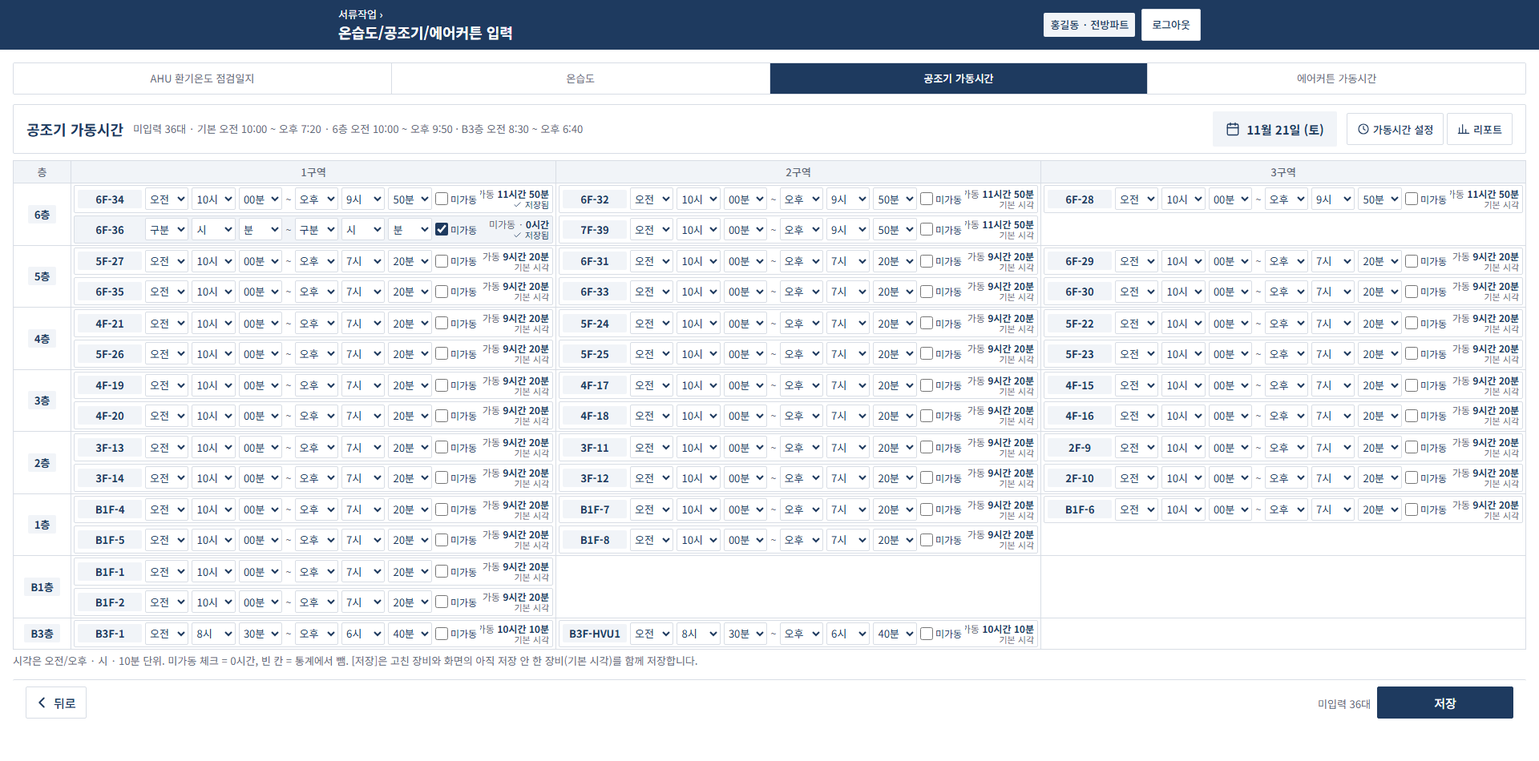
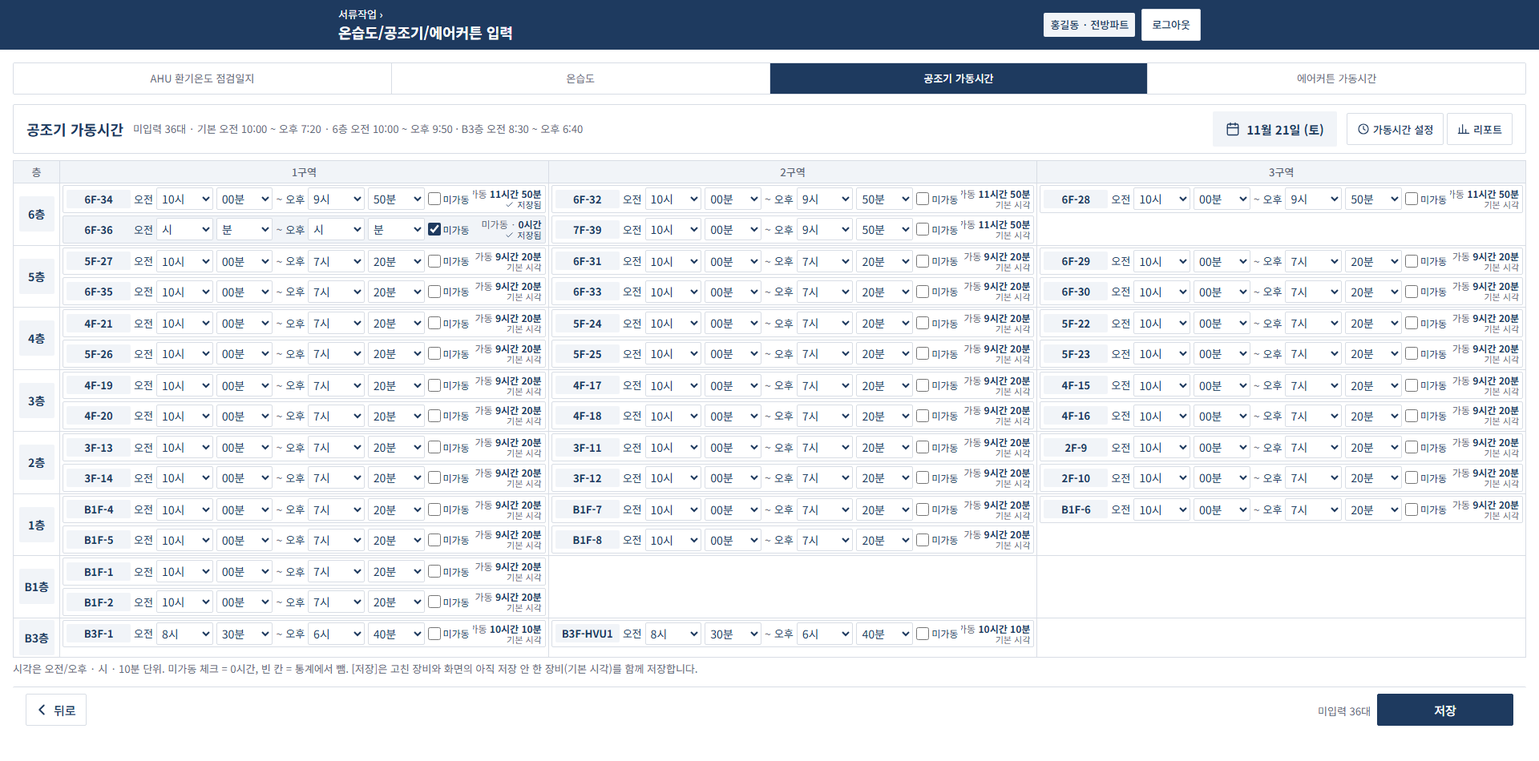
업무지원 v0.23.1 가동시간 칸 다듬기 (시작 오전·종료 오후 고정, PC 글자·층 칸 정사각형, 결정 202)

diff --git a/fm/ws/app.html b/fm/ws/app.html
@@ -10,9 +10,9 @@
 <title>업무지원 · 에비뉴엘 시설팀</title>
 <meta name="robots" content="noindex">
 <script src="https://cdn.jsdelivr.net/npm/@supabase/supabase-js@2.49.4/dist/umd/supabase.min.js"></script>
-<script src="config.js?v=0.23.0"></script>
-<script>window.WS_VERSION = '0.23.0';</script>
-<script src="ws-api.js?v=0.23.0"></script>
+<script src="config.js?v=0.23.1"></script>
+<script>window.WS_VERSION = '0.23.1';</script>
+<script src="ws-api.js?v=0.23.1"></script>
 <meta charset="utf-8">
 <link rel="preconnect" href="https://fonts.googleapis.com">
 <link href="https://fonts.googleapis.com/css2?family=Noto+Sans+KR:wght@400;500;700&display=swap" rel="stylesheet" media="print" onload="this.media='all'">
@@ -693,18 +693,20 @@ select.lgin{text-align:center;padding:0}
 .uchd{display:flex;align-items:center;gap:var(--sp-3);flex-wrap:wrap}.uchd b{font-size:var(--size-l)}.uchd .hvmeta{margin:0;flex:1 1 300px}
 .hdbtns{display:flex;gap:var(--sp-1);flex-wrap:wrap;justify-content:flex-end}
 /* PC 가동시간: 장비 한 줄 (1920x1080 한 화면, 결정 200) */
-.ucpc{margin-top:var(--sp-2);table-layout:fixed}.ucpc th{padding:4px}.ucpc td{padding:2px 3px}.lgwrap .ucpc+.clnote{margin-top:4px}
+.ucpc{margin-top:var(--sp-2);table-layout:fixed}.ucpc.zoned td.ctr .flname{width:44px;height:44px;padding:0;display:inline-flex;align-items:center;justify-content:center;font-size:14px}.ucpc th{padding:4px}.ucpc td{padding:2px 3px}.lgwrap .ucpc+.clnote{margin-top:4px}
 .ucpc .ucg{gap:3px}
 .ucpc .uc{display:flex;align-items:center;gap:4px;padding:2px 4px;border:1px solid var(--line2);border-radius:var(--radius)}
 .ucpc .uc .h,.ucpc .uc .r{display:contents}
 .ucpc .uc .flname{width:80px;flex:none;font-size:13px;padding:2px 4px;text-align:center;white-space:nowrap;overflow:hidden;text-overflow:ellipsis}.ucpc .uc .flname small{display:none}
-.ucpc .uc .r>span{display:none}
-.ucpc .uc .r:nth-child(3)>span{display:inline;font-size:0;order:3}.ucpc .uc .r:nth-child(3)>span::before{content:'~';font-size:13px;color:var(--sub)}
-.ucpc .uc select{order:2;font-size:13px;min-height:28px;height:28px;flex:1 1 0;min-width:0;width:auto;padding:0 1px}.ucpc .uc .r:nth-child(3)>select{order:4}
+.ucpc .uc .r>span:first-child{display:none}
+.ucpc .uc .r:nth-child(3)>span:first-child{display:inline;font-size:0;order:3}.ucpc .uc .r:nth-child(3)>span:first-child::before{content:'~';font-size:14px;color:var(--sub)}
+.ucpc .uc .ap{order:2;flex:none;font-size:13px}.ucpc .uc .r:nth-child(3)>.ap{order:4}
+.ucpc .uc select{order:2;font-size:14px;min-height:28px;height:28px;flex:1 1 0;min-width:52px;width:auto;padding:0 2px}.ucpc .uc .r:nth-child(3)>select{order:4}
 .ucpc .uc .off{order:5;min-height:28px;font-size:12px;gap:3px;white-space:nowrap}.ucpc .uc .off input{width:16px;height:16px}
 .ucpc .uc .f{order:6;margin:0;flex:none;width:86px;overflow:hidden;flex-direction:column;align-items:flex-end;gap:0;font-size:12px;line-height:1.25;white-space:nowrap}
 .ucpc .uc .f .nwstate,.ucpc .uc .f .clmuted{font-size:11px}.ucpc .uc .f svg{width:11px;height:11px}
 .ucpc .ucg3{gap:4px}
+.uc .ap{text-align:center;font-size:var(--size-s);color:var(--ink)}
 .ucz{font-size:var(--size-s);color:var(--sub);font-weight:600;margin:var(--sp-3) 0 var(--sp-1)}
 .flsec{scroll-margin-top:70px}
 /* 가동시간 설정 (요일별 기본 시각) */
@@ -735,7 +737,7 @@ select.lgin{text-align:center;padding:0}
 const EXEC_URL = '';
 const FLOORS = ['B1','1F','2F','3F','4F','5F','6F'];
 const CAN_PRINT = window.matchMedia('(hover: hover) and (pointer: fine)').matches && window.innerWidth >= 900;
-const S = { token: store('ws_token') || '', user: null, view: 'loading', pin: '', sign: null, docs: null, tbm: null, fire: null, qr: null, sel: {}, q: '', st: null, ym: '', floor: '3F', busy: false, ver: '0.23.0' || store('ws_ver') || '' };
+const S = { token: store('ws_token') || '', user: null, view: 'loading', pin: '', sign: null, docs: null, tbm: null, fire: null, qr: null, sel: {}, q: '', st: null, ym: '', floor: '3F', busy: false, ver: '0.23.1' || store('ws_ver') || '' };
 
 /* ── 도우미 ── */
 function store(k, v) { try { if (v === undefined) return localStorage.getItem(k); if (v === null) localStorage.removeItem(k); else localStorage.setItem(k, v); } catch (e) { return null; } }
@@ -2962,7 +2964,7 @@ async function climSave() {
 
 /* ── 탭 ③④ 공조기·에어커튼 가동시간: 시각 = 오전/오후·시·10분. 미가동 = 0시간, 빈 칸 = 통계 제외 (옛 앱 규칙) ── */
 function useParts(m) { if (m == null || m === '') return ['', '', '']; if (m >= 1440) return ['am', '12', '0']; const h24 = Math.floor(m / 60); return [h24 < 12 ? 'am' : 'pm', String(h24 % 12 || 12), String(m % 60)]; }
-function useMin(ap, hh, mm) { if (!ap || !hh || mm === '') return null; return (Number(hh) % 12 + (ap === 'pm' ? 12 : 0)) * 60 + Number(mm); }
+function useMin(ap, hh, mm) { if (!ap || !hh || mm === '') return null; if (hh === '24') return 1440 + Number(mm); return (Number(hh) % 12 + (ap === 'pm' ? 12 : 0)) * 60 + Number(mm); }
 function useDur(m) { return Math.floor(m / 60) + '시간' + (m % 60 ? ' ' + String(m % 60).padStart(2, '0') + '분' : ''); }
 function useHm(m) { const p = useParts(m); return (p[0] === 'am' ? '오전 ' : '오후 ') + p[1] + ':' + String(p[2]).padStart(2, '0'); }
 async function openUse(kind, day) {
@@ -2992,14 +2994,15 @@ function useCal() {
 function useParse(v) {
   if (v.off) return { s: null, e: null, off: true };
   if (v.s == null && v.e == null) return { s: null, e: null, off: false, empty: true };
-  if (v.s == null || v.e == null) return { err: '시작과 종료의 오전/오후·시·분을 모두 고르세요' };
+  if (v.s == null || v.e == null) return { err: '시작과 종료의 시·분을 모두 고르세요' };
   let e = v.e; if (e <= v.s) { if (e === 0) e = 1440; else return { err: '종료가 시작보다 빠릅니다' }; }
   return { s: v.s, e, off: false };
 }
-function useSel(u, f, val, nm) {
-  const p = useParts(val), o = (k, opts) => '<select data-u="' + h(u.u) + '" data-f="' + f + k + '" aria-label="' + h(nm) + '" onchange="useIn(this)">' + opts.map(x => '<option value="' + x[0] + '"' + (String(x[0]) === String(p[k === 'a' ? 0 : k === 'h' ? 1 : 2]) ? ' selected' : '') + '>' + x[1] + '</option>').join('') + '</select>';
-  const hrs = [['', '시']].concat(Array.from({ length: 12 }, (_, i) => [String(i + 1), (i + 1) + '시'])), mins = [['', '분']].concat([0, 10, 20, 30, 40, 50].map(m => [String(m), String(m).padStart(2, '0') + '분']));
-  return o('a', [['', '구분'], ['am', '오전'], ['pm', '오후']]) + o('h', hrs) + o('m', mins);
+function useSel(u, f, val, nm, part) {
+  const p = val == null && part ? ['', part[0], part[1]] : f === 'e' && val >= 1440 ? ['pm', '24', String(val - 1440)] : useParts(val), ap = p[0] || (f === 's' ? 'am' : 'pm');
+  const o = (k, opts) => '<select data-u="' + h(u.u) + '" data-f="' + f + k + '" aria-label="' + h(nm) + (k === 'h' ? ' 시' : ' 분') + '" onchange="useIn(this)">' + opts.map(x => '<option value="' + x[0] + '"' + (String(x[0]) === String(p[k === 'h' ? 1 : 2]) ? ' selected' : '') + '>' + x[1] + '</option>').join('') + '</select>';
+  const hrs = [['', '시']].concat(Array.from({ length: 12 }, (_, i) => [String(i + 1), (i + 1) + '시']), f === 'e' ? [['24', '12시(자정)']] : []), mins = [['', '분']].concat([0, 10, 20, 30, 40, 50].map(m => [String(m), String(m).padStart(2, '0') + '분']));
+  return '<span class="ap" data-f="' + f + 'a" data-ap="' + ap + '">' + (ap === 'am' ? '오전' : '오후') + '</span>' + o('h', hrs) + o('m', mins);   // 시작 오전 · 종료 오후 고정 (결정 202)
 }
 function useCard(u) {
   const g = S.use, v = g.v[u.u], p = useParse(v), nm = (u.sub ? u.sub + ' ' : '') + u.name;
@@ -3007,7 +3010,7 @@ function useCard(u) {
   const st = g.ch[u.u] ? '<span class="nwstate dirty"><i class="dot"></i>저장 안 함</span>' : v.saved ? '<span class="nwstate">' + ICON.ok + '저장됨</span>' : '<span class="clmuted">기본 시각</span>';
   return '<div class="uc' + (v.off ? ' isoff' : '') + (p.err ? ' bad' : '') + '" data-card="' + h(u.u) + '"><div class="h">' + clName(u.name, u.tone, u.sub) +
     '<label class="off"><input type="checkbox" data-u="' + h(u.u) + '" data-f="off"' + (v.off ? ' checked' : '') + ' onchange="useIn(this)" aria-label="' + h(nm) + ' 미가동">미가동</label></div>' +
-    '<div class="r"><span>시작</span>' + useSel(u, 's', v.s, nm + ' 시작') + '</div><div class="r"><span>종료</span>' + useSel(u, 'e', v.e, nm + ' 종료') + '</div>' +
+    '<div class="r"><span>시작</span>' + useSel(u, 's', v.s, nm + ' 시작', v.sp) + '</div><div class="r"><span>종료</span>' + useSel(u, 'e', v.e, nm + ' 종료', v.ep) + '</div>' +
     '<div class="f"><span>' + foot + '</span>' + st + '</div></div>';
 }
 function useIn(el) {
@@ -3015,7 +3018,8 @@ function useIn(el) {
   if (f === 'off') v.off = el.checked;
   else {
     const c = el.closest('.uc'), q = k => c.querySelector('[data-f="' + f[0] + k + '"]').value;
-    v[f[0]] = useMin(q('a'), q('h'), q('m'));
+    v[f[0] + 'p'] = [q('h'), q('m')];
+    v[f[0]] = useMin(c.querySelector('[data-f="' + f[0] + 'a"]').dataset.ap, q('h'), q('m'));
   }
   g.ch[u] = 1; g.err = '';
   const unit = g.srv.units.find(x => x.u === u), c = document.querySelector('[data-card="' + CSS.escape(u) + '"]');
@@ -3051,7 +3055,7 @@ function renderUse() {
       const noz = x.us.every(u => !u.zone);   // 구역 없는 B3층: 구역 칸에 차례로 (다른 층 칸과 같은 크기)
       return '<tr>' + nm + Z.map((z, i) => '<td><div class="ucg">' + x.us.filter((u, j) => noz ? j % 3 === i : u.zone === z).map(useCard).join('') + '</div></td>').join('') + '</tr>';
     }).join('');
-    return clTop() + '<div class="lgwrap">' + clTabs(g.kind) + head + '<table class="cltbl ucpc"><thead><tr><th style="width:72px">' + (zoned ? '층' : '묶음') + '</th>' + (zoned ? Z.map(z => '<th>' + z + '</th>').join('') : '<th>' + kn + '</th>') + '</tr></thead><tbody>' + rows + '</tbody></table>' + note + bar + '</div>';
+    return clTop() + '<div class="lgwrap">' + clTabs(g.kind) + head + '<table class="cltbl ucpc' + (zoned ? ' zoned' : '') + '"><thead><tr><th style="width:' + (zoned ? 58 : 72) + 'px">' + (zoned ? '층' : '묶음') + '</th>' + (zoned ? Z.map(z => '<th>' + z + '</th>').join('') : '<th>' + kn + '</th>') + '</tr></thead><tbody>' + rows + '</tbody></table>' + note + bar + '</div>';
   }
   const head = '<div class="card" style="padding:var(--sp-4)"><div class="hvhd"><b>' + kn + ' 가동시간</b>' + date + '</div>' +
     '<div class="hdrow"><span class="hvmeta" style="margin:0">' + meta + '</span>' + btns + '</div>' + clNav(gs.map(x => [x.g, x.tone, cnt(x)]), g.pg, 'useJump') + '</div>';

diff --git a/apps/ws/src/Index.html b/apps/ws/src/Index.html
@@ -574,18 +574,20 @@ select.lgin{text-align:center;padding:0}
 .uchd{display:flex;align-items:center;gap:var(--sp-3);flex-wrap:wrap}.uchd b{font-size:var(--size-l)}.uchd .hvmeta{margin:0;flex:1 1 300px}
 .hdbtns{display:flex;gap:var(--sp-1);flex-wrap:wrap;justify-content:flex-end}
 /* PC 가동시간: 장비 한 줄 (1920x1080 한 화면, 결정 200) */
-.ucpc{margin-top:var(--sp-2);table-layout:fixed}.ucpc th{padding:4px}.ucpc td{padding:2px 3px}.lgwrap .ucpc+.clnote{margin-top:4px}
+.ucpc{margin-top:var(--sp-2);table-layout:fixed}.ucpc.zoned td.ctr .flname{width:44px;height:44px;padding:0;display:inline-flex;align-items:center;justify-content:center;font-size:14px}.ucpc th{padding:4px}.ucpc td{padding:2px 3px}.lgwrap .ucpc+.clnote{margin-top:4px}
 .ucpc .ucg{gap:3px}
 .ucpc .uc{display:flex;align-items:center;gap:4px;padding:2px 4px;border:1px solid var(--line2);border-radius:var(--radius)}
 .ucpc .uc .h,.ucpc .uc .r{display:contents}
 .ucpc .uc .flname{width:80px;flex:none;font-size:13px;padding:2px 4px;text-align:center;white-space:nowrap;overflow:hidden;text-overflow:ellipsis}.ucpc .uc .flname small{display:none}
-.ucpc .uc .r>span{display:none}
-.ucpc .uc .r:nth-child(3)>span{display:inline;font-size:0;order:3}.ucpc .uc .r:nth-child(3)>span::before{content:'~';font-size:13px;color:var(--sub)}
-.ucpc .uc select{order:2;font-size:13px;min-height:28px;height:28px;flex:1 1 0;min-width:0;width:auto;padding:0 1px}.ucpc .uc .r:nth-child(3)>select{order:4}
+.ucpc .uc .r>span:first-child{display:none}
+.ucpc .uc .r:nth-child(3)>span:first-child{display:inline;font-size:0;order:3}.ucpc .uc .r:nth-child(3)>span:first-child::before{content:'~';font-size:14px;color:var(--sub)}
+.ucpc .uc .ap{order:2;flex:none;font-size:13px}.ucpc .uc .r:nth-child(3)>.ap{order:4}
+.ucpc .uc select{order:2;font-size:14px;min-height:28px;height:28px;flex:1 1 0;min-width:52px;width:auto;padding:0 2px}.ucpc .uc .r:nth-child(3)>select{order:4}
 .ucpc .uc .off{order:5;min-height:28px;font-size:12px;gap:3px;white-space:nowrap}.ucpc .uc .off input{width:16px;height:16px}
 .ucpc .uc .f{order:6;margin:0;flex:none;width:86px;overflow:hidden;flex-direction:column;align-items:flex-end;gap:0;font-size:12px;line-height:1.25;white-space:nowrap}
 .ucpc .uc .f .nwstate,.ucpc .uc .f .clmuted{font-size:11px}.ucpc .uc .f svg{width:11px;height:11px}
 .ucpc .ucg3{gap:4px}
+.uc .ap{text-align:center;font-size:var(--size-s);color:var(--ink)}
 .ucz{font-size:var(--size-s);color:var(--sub);font-weight:600;margin:var(--sp-3) 0 var(--sp-1)}
 .flsec{scroll-margin-top:70px}
 /* 가동시간 설정 (요일별 기본 시각) */
@@ -2843,7 +2845,7 @@ async function climSave() {
 
 /* ── 탭 ③④ 공조기·에어커튼 가동시간: 시각 = 오전/오후·시·10분. 미가동 = 0시간, 빈 칸 = 통계 제외 (옛 앱 규칙) ── */
 function useParts(m) { if (m == null || m === '') return ['', '', '']; if (m >= 1440) return ['am', '12', '0']; const h24 = Math.floor(m / 60); return [h24 < 12 ? 'am' : 'pm', String(h24 % 12 || 12), String(m % 60)]; }
-function useMin(ap, hh, mm) { if (!ap || !hh || mm === '') return null; return (Number(hh) % 12 + (ap === 'pm' ? 12 : 0)) * 60 + Number(mm); }
+function useMin(ap, hh, mm) { if (!ap || !hh || mm === '') return null; if (hh === '24') return 1440 + Number(mm); return (Number(hh) % 12 + (ap === 'pm' ? 12 : 0)) * 60 + Number(mm); }
 function useDur(m) { return Math.floor(m / 60) + '시간' + (m % 60 ? ' ' + String(m % 60).padStart(2, '0') + '분' : ''); }
 function useHm(m) { const p = useParts(m); return (p[0] === 'am' ? '오전 ' : '오후 ') + p[1] + ':' + String(p[2]).padStart(2, '0'); }
 async function openUse(kind, day) {
@@ -2873,14 +2875,15 @@ function useCal() {
 function useParse(v) {
   if (v.off) return { s: null, e: null, off: true };
   if (v.s == null && v.e == null) return { s: null, e: null, off: false, empty: true };
-  if (v.s == null || v.e == null) return { err: '시작과 종료의 오전/오후·시·분을 모두 고르세요' };
+  if (v.s == null || v.e == null) return { err: '시작과 종료의 시·분을 모두 고르세요' };
   let e = v.e; if (e <= v.s) { if (e === 0) e = 1440; else return { err: '종료가 시작보다 빠릅니다' }; }
   return { s: v.s, e, off: false };
 }
-function useSel(u, f, val, nm) {
-  const p = useParts(val), o = (k, opts) => '<select data-u="' + h(u.u) + '" data-f="' + f + k + '" aria-label="' + h(nm) + '" onchange="useIn(this)">' + opts.map(x => '<option value="' + x[0] + '"' + (String(x[0]) === String(p[k === 'a' ? 0 : k === 'h' ? 1 : 2]) ? ' selected' : '') + '>' + x[1] + '</option>').join('') + '</select>';
-  const hrs = [['', '시']].concat(Array.from({ length: 12 }, (_, i) => [String(i + 1), (i + 1) + '시'])), mins = [['', '분']].concat([0, 10, 20, 30, 40, 50].map(m => [String(m), String(m).padStart(2, '0') + '분']));
-  return o('a', [['', '구분'], ['am', '오전'], ['pm', '오후']]) + o('h', hrs) + o('m', mins);
+function useSel(u, f, val, nm, part) {
+  const p = val == null && part ? ['', part[0], part[1]] : f === 'e' && val >= 1440 ? ['pm', '24', String(val - 1440)] : useParts(val), ap = p[0] || (f === 's' ? 'am' : 'pm');
+  const o = (k, opts) => '<select data-u="' + h(u.u) + '" data-f="' + f + k + '" aria-label="' + h(nm) + (k === 'h' ? ' 시' : ' 분') + '" onchange="useIn(this)">' + opts.map(x => '<option value="' + x[0] + '"' + (String(x[0]) === String(p[k === 'h' ? 1 : 2]) ? ' selected' : '') + '>' + x[1] + '</option>').join('') + '</select>';
+  const hrs = [['', '시']].concat(Array.from({ length: 12 }, (_, i) => [String(i + 1), (i + 1) + '시']), f === 'e' ? [['24', '12시(자정)']] : []), mins = [['', '분']].concat([0, 10, 20, 30, 40, 50].map(m => [String(m), String(m).padStart(2, '0') + '분']));
+  return '<span class="ap" data-f="' + f + 'a" data-ap="' + ap + '">' + (ap === 'am' ? '오전' : '오후') + '</span>' + o('h', hrs) + o('m', mins);   // 시작 오전 · 종료 오후 고정 (결정 202)
 }
 function useCard(u) {
   const g = S.use, v = g.v[u.u], p = useParse(v), nm = (u.sub ? u.sub + ' ' : '') + u.name;
@@ -2888,7 +2891,7 @@ function useCard(u) {
   const st = g.ch[u.u] ? '<span class="nwstate dirty"><i class="dot"></i>저장 안 함</span>' : v.saved ? '<span class="nwstate">' + ICON.ok + '저장됨</span>' : '<span class="clmuted">기본 시각</span>';
   return '<div class="uc' + (v.off ? ' isoff' : '') + (p.err ? ' bad' : '') + '" data-card="' + h(u.u) + '"><div class="h">' + clName(u.name, u.tone, u.sub) +
     '<label class="off"><input type="checkbox" data-u="' + h(u.u) + '" data-f="off"' + (v.off ? ' checked' : '') + ' onchange="useIn(this)" aria-label="' + h(nm) + ' 미가동">미가동</label></div>' +
-    '<div class="r"><span>시작</span>' + useSel(u, 's', v.s, nm + ' 시작') + '</div><div class="r"><span>종료</span>' + useSel(u, 'e', v.e, nm + ' 종료') + '</div>' +
+    '<div class="r"><span>시작</span>' + useSel(u, 's', v.s, nm + ' 시작', v.sp) + '</div><div class="r"><span>종료</span>' + useSel(u, 'e', v.e, nm + ' 종료', v.ep) + '</div>' +
     '<div class="f"><span>' + foot + '</span>' + st + '</div></div>';
 }
 function useIn(el) {
@@ -2896,7 +2899,8 @@ function useIn(el) {
   if (f === 'off') v.off = el.checked;
   else {
     const c = el.closest('.uc'), q = k => c.querySelector('[data-f="' + f[0] + k + '"]').value;
-    v[f[0]] = useMin(q('a'), q('h'), q('m'));
+    v[f[0] + 'p'] = [q('h'), q('m')];
+    v[f[0]] = useMin(c.querySelector('[data-f="' + f[0] + 'a"]').dataset.ap, q('h'), q('m'));
   }
   g.ch[u] = 1; g.err = '';
   const unit = g.srv.units.find(x => x.u === u), c = document.querySelector('[data-card="' + CSS.escape(u) + '"]');
@@ -2932,7 +2936,7 @@ function renderUse() {
       const noz = x.us.every(u => !u.zone);   // 구역 없는 B3층: 구역 칸에 차례로 (다른 층 칸과 같은 크기)
       return '<tr>' + nm + Z.map((z, i) => '<td><div class="ucg">' + x.us.filter((u, j) => noz ? j % 3 === i : u.zone === z).map(useCard).join('') + '</div></td>').join('') + '</tr>';
     }).join('');
-    return clTop() + '<div class="lgwrap">' + clTabs(g.kind) + head + '<table class="cltbl ucpc"><thead><tr><th style="width:72px">' + (zoned ? '층' : '묶음') + '</th>' + (zoned ? Z.map(z => '<th>' + z + '</th>').join('') : '<th>' + kn + '</th>') + '</tr></thead><tbody>' + rows + '</tbody></table>' + note + bar + '</div>';
+    return clTop() + '<div class="lgwrap">' + clTabs(g.kind) + head + '<table class="cltbl ucpc' + (zoned ? ' zoned' : '') + '"><thead><tr><th style="width:' + (zoned ? 58 : 72) + 'px">' + (zoned ? '층' : '묶음') + '</th>' + (zoned ? Z.map(z => '<th>' + z + '</th>').join('') : '<th>' + kn + '</th>') + '</tr></thead><tbody>' + rows + '</tbody></table>' + note + bar + '</div>';
   }
   const head = '<div class="card" style="padding:var(--sp-4)"><div class="hvhd"><b>' + kn + ' 가동시간</b>' + date + '</div>' +
     '<div class="hdrow"><span class="hvmeta" style="margin:0">' + meta + '</span>' + btns + '</div>' + clNav(gs.map(x => [x.g, x.tone, cnt(x)]), g.pg, 'useJump') + '</div>';

diff --git a/apps/ws/test/sb_climate_test.js b/apps/ws/test/sb_climate_test.js
@@ -103,7 +103,7 @@ const called = async (fn, n0) => { for (let i = 0; i < 80; i++) { if (count(fn) 
   ok(tabs.join('|') === 'AHU 환기온도 점검일지|온습도|공조기 가동시간|에어커튼 가동시간' && /on/.test(await p.locator('.cltabs button').nth(2).getAttribute('class')), 'C3) 탭 4개 · 지금 탭 표시 (' + tabs.join('|') + ')');
   const ord = await p.evaluate(() => [...document.querySelectorAll('.flhd .flname, .ucz, .uc')].map(e => e.dataset.card || e.innerText.trim()).join(','));
   ok(await p.locator('.flnav button').count() === 3 && await p.locator('.nextfl').count() === 0 && ord === '6층,1구역,7F-39,2구역,6F-36,5층,1구역,5F-27,B3층,B3F-1,B3F-HVU1', 'C4) 휴대폰: 층 → 구역 차례로 한 화면에 (넘기기 없음) ' + ord);
-  ok(await p.locator('.uc[data-card="7F-39"] select[data-f="eh"]').inputValue() === '9' && await p.locator('.uc[data-card="7F-39"] select[data-f="ea"]').inputValue() === 'pm' && /11시간 50분/.test(await p.locator('.uc[data-card="7F-39"] .f').innerText()), 'C5) 기본 시각 채움 (6층 오후 9:50 · 11시간 50분)');
+  ok(await p.locator('.uc[data-card="7F-39"] select[data-f="eh"]').inputValue() === '9' && await p.locator('.uc[data-card="7F-39"] [data-f="ea"]').innerText() === '오후' && await p.locator('.uc[data-card="7F-39"] [data-f="sa"]').innerText() === '오전' && await p.locator('.uc[data-card="7F-39"] select[data-f="sa"]').count() === 0 && /11시간 50분/.test(await p.locator('.uc[data-card="7F-39"] .f').innerText()), 'C5) 기본 시각 채움 (6층 오후 9:50 · 11시간 50분)');
   await p.selectOption('.uc[data-card="7F-39"] select[data-f="eh"]', '8');
   ok(/10시간 50분/.test(await p.locator('.uc[data-card="7F-39"] .f').innerText()) && /1대 저장 안 함/.test(await p.locator('#useState').innerText()), 'C6) 시각 바꾸면 가동시간 바로 다시 셈 · 「1대 저장 안 함」');
   await p.check('.uc[data-card="6F-36"] input[data-f="off"]');
@@ -114,10 +114,10 @@ const called = async (fn, n0) => { for (let i = 0; i < 80; i++) { if (count(fn) 
   ok(sv.p_kind === 'hvac' && sv.p_day === Y && JSON.stringify(sv.p_rows) === '[{"u":"7F-39","s":600,"e":1250,"off":false},{"u":"6F-36","s":null,"e":null,"off":true},{"u":"5F-27","s":600,"e":1160,"off":false},{"u":"B3F-1","s":510,"e":1120,"off":false},{"u":"B3F-HVU1","s":510,"e":1120,"off":false}]', 'C9) DB 함수에 날짜·장비별 분 (오후 8:50 = 1250) · 미가동 ' + JSON.stringify(sv.p_rows));
   await p.click('.flnav button:has-text("5층")');
   ok(await p.evaluate(() => S.use.pg) === 1 && /on/.test(await p.locator('.flnav button').nth(1).getAttribute('class')), 'C10) 층 버튼 → 그 층으로 이동');
-  await p.selectOption('.uc[data-card="5F-27"] select[data-f="ea"]', 'am'); await p.selectOption('.uc[data-card="5F-27"] select[data-f="eh"]', '9');
+  await p.selectOption('.uc[data-card="5F-27"] select[data-f="eh"]', '');
   await p.click('#useSave');
-  ok(await toastOf(p, '종료가 시작보다 빠릅니다') && /종료가 시작보다/.test(await p.locator('#useState').innerText()), 'C11) 종료가 시작보다 빠르면 저장 안 하고 아래 줄에 이유');
-  await p.selectOption('.uc[data-card="5F-27"] select[data-f="ea"]', 'pm');
+  ok(await toastOf(p, '시·분을 모두 고르세요') && /시·분을 모두/.test(await p.locator('#useState').innerText()), 'C11) 시를 비우면 저장 안 하고 아래 줄에 이유');
+  await p.selectOption('.uc[data-card="5F-27"] select[data-f="eh"]', '9'); await p.selectOption('.uc[data-card="5F-27"] select[data-f="em"]', '20');
   n0 = count('ws_usage_save'); await p.click('#useSave'); await called('ws_usage_save', n0);
   ok(JSON.stringify(last('ws_usage_save').a.p_rows) === '[{"u":"5F-27","s":600,"e":1280,"off":false}]', 'C12) 고친 것만 다시 저장 ' + JSON.stringify(last('ws_usage_save').a.p_rows));
   await p.screenshot({ path: path.join(__dirname, 'shot_cl_use.png'), fullPage: true });
@@ -162,6 +162,8 @@ const called = async (fn, n0) => { for (let i = 0; i < 80; i++) { if (count(fn) 
   ok(await q.locator('.nwbar .back-in').count() === 1 && await q.locator('.flname[style]').count() === 0, 'C24c) 아래 줄 뒤로 하나 (AHU 탭과 같음) · 층 색 없음');
   const one = await q.evaluate(() => { const c = document.querySelector('.uc[data-card="5F-27"]'), sel = [...c.querySelectorAll('select')].map(e => Math.round(e.getBoundingClientRect().top)); return [Math.round(c.getBoundingClientRect().height), new Set(sel).size]; });
   ok(one[0] <= 40 && one[1] === 1, 'C24d) PC: 장비 한 칸이 한 줄 (높이 ' + one[0] + 'px)');
+  const sq = await q.evaluate(() => { const r = document.querySelector('.ucpc td.ctr .flname').getBoundingClientRect(), w = Math.min(...[...document.querySelectorAll('.ucpc select')].map(e => e.getBoundingClientRect().width)); return [Math.round(r.width), Math.round(r.height), Math.round(w), document.querySelectorAll('.ucpc select[data-f$="a"]').length]; });
+  ok(sq[0] === sq[1] && sq[0] <= 48 && sq[2] >= 52 && sq[3] === 0, 'C24j) PC: 층 칸 정사각형 · 시·분 칸 52px 이상 · 오전/오후 고르기 없음 ' + JSON.stringify(sq));
   // 가동시간 설정 (결정 200): 리포트 왼쪽 버튼
   ok(await q.evaluate(() => { const a = document.getElementById('uhrBtn'), b = [...document.querySelectorAll('.hdbtns button')].pop(); return !!a && /리포트/.test(b.innerText) && a.getBoundingClientRect().right <= b.getBoundingClientRect().left; }), 'C24e) [가동시간 설정] 버튼이 [리포트] 왼쪽');
   await q.click('#uhrBtn'); await q.locator('.uhg').first().waitFor();

diff --git a/fm/ws/spec.html b/fm/ws/spec.html
@@ -9,7 +9,7 @@
 <title>시방서 검색 · 에비뉴엘 시설팀</title>
 <meta name="robots" content="noindex">
 <script src="https://cdn.jsdelivr.net/npm/@supabase/supabase-js@2.49.4/dist/umd/supabase.min.js"></script>
-<script src="config.js?v=0.23.0"></script>
+<script src="config.js?v=0.23.1"></script>
 <link rel="preconnect" href="https://fonts.googleapis.com">
 <link href="https://fonts.googleapis.com/css2?family=Noto+Sans+KR:wght@400;500;700&display=swap" rel="stylesheet" media="print" onload="this.media='all'">
 <style>
@@ -688,18 +688,20 @@ select.lgin{text-align:center;padding:0}
 .uchd{display:flex;align-items:center;gap:var(--sp-3);flex-wrap:wrap}.uchd b{font-size:var(--size-l)}.uchd .hvmeta{margin:0;flex:1 1 300px}
 .hdbtns{display:flex;gap:var(--sp-1);flex-wrap:wrap;justify-content:flex-end}
 /* PC 가동시간: 장비 한 줄 (1920x1080 한 화면, 결정 200) */
-.ucpc{margin-top:var(--sp-2);table-layout:fixed}.ucpc th{padding:4px}.ucpc td{padding:2px 3px}.lgwrap .ucpc+.clnote{margin-top:4px}
+.ucpc{margin-top:var(--sp-2);table-layout:fixed}.ucpc.zoned td.ctr .flname{width:44px;height:44px;padding:0;display:inline-flex;align-items:center;justify-content:center;font-size:14px}.ucpc th{padding:4px}.ucpc td{padding:2px 3px}.lgwrap .ucpc+.clnote{margin-top:4px}
 .ucpc .ucg{gap:3px}
 .ucpc .uc{display:flex;align-items:center;gap:4px;padding:2px 4px;border:1px solid var(--line2);border-radius:var(--radius)}
 .ucpc .uc .h,.ucpc .uc .r{display:contents}
 .ucpc .uc .flname{width:80px;flex:none;font-size:13px;padding:2px 4px;text-align:center;white-space:nowrap;overflow:hidden;text-overflow:ellipsis}.ucpc .uc .flname small{display:none}
-.ucpc .uc .r>span{display:none}
-.ucpc .uc .r:nth-child(3)>span{display:inline;font-size:0;order:3}.ucpc .uc .r:nth-child(3)>span::before{content:'~';font-size:13px;color:var(--sub)}
-.ucpc .uc select{order:2;font-size:13px;min-height:28px;height:28px;flex:1 1 0;min-width:0;width:auto;padding:0 1px}.ucpc .uc .r:nth-child(3)>select{order:4}
+.ucpc .uc .r>span:first-child{display:none}
+.ucpc .uc .r:nth-child(3)>span:first-child{display:inline;font-size:0;order:3}.ucpc .uc .r:nth-child(3)>span:first-child::before{content:'~';font-size:14px;color:var(--sub)}
+.ucpc .uc .ap{order:2;flex:none;font-size:13px}.ucpc .uc .r:nth-child(3)>.ap{order:4}
+.ucpc .uc select{order:2;font-size:14px;min-height:28px;height:28px;flex:1 1 0;min-width:52px;width:auto;padding:0 2px}.ucpc .uc .r:nth-child(3)>select{order:4}
 .ucpc .uc .off{order:5;min-height:28px;font-size:12px;gap:3px;white-space:nowrap}.ucpc .uc .off input{width:16px;height:16px}
 .ucpc .uc .f{order:6;margin:0;flex:none;width:86px;overflow:hidden;flex-direction:column;align-items:flex-end;gap:0;font-size:12px;line-height:1.25;white-space:nowrap}
 .ucpc .uc .f .nwstate,.ucpc .uc .f .clmuted{font-size:11px}.ucpc .uc .f svg{width:11px;height:11px}
 .ucpc .ucg3{gap:4px}
+.uc .ap{text-align:center;font-size:var(--size-s);color:var(--ink)}
 .ucz{font-size:var(--size-s);color:var(--sub);font-weight:600;margin:var(--sp-3) 0 var(--sp-1)}
 .flsec{scroll-margin-top:70px}
 /* 가동시간 설정 (요일별 기본 시각) */

diff --git a/docs/설계/90_결정과이력.md b/docs/설계/90_결정과이력.md
@@ -220,6 +220,7 @@
 | 192 | WS 온습도 앱 이관 — [서류작업] › [온습도/공조기/에어커튼 입력] | 사용자 11-21 이관 질문 8개 답 (`WS_공조에너지_이관준비.md` 0장). 옛 [구역별 온습도 확인] 앱 전부(온습도·불쾌지수·그래프·공조기·에어커튼 가동·리포트)를 업무지원 한 메뉴로, 자료는 Supabase 하나(`19_climate.sql`: `climate_record`·`equip_usage`·`curtain_unit`·`climate_zone`, `ahu_unit` 칸 추가). 로그인 = PIN + 근무일 첫 서명. 공조기 이름 = `ahu_unit.no`(40→B3F-1, 41→B3F-HVU1). 온습도 + 환기온도는 한 양식(시안 먼저), 가동시간은 따로. 디자인 = `tokens.css`, 예외는 층 색·에어커튼 IN/OUT·후방 색만. 옛 기록 첫 기록부터 전부(3·37·38 포함, 최신 수정시각, 시트 CSV로) · 건수·합계 대조 · 지우기 없음. 종합업무일지는 `?api=logac` 대신 Supabase. 옛 GitHub 주소는 확인 뒤 사용자가 직접 삭제. 설계 v0.1, 시안 `docs/시안/WS-온습도공조기/` 확인 대기 (`WS_온습도공조기`) | 2026-11-21 |
 | 194 | WS 온습도 이관에 개선 3가지 함께 | 사용자 11-21 (온습도 앱 세션 통해 전달). ① 종합업무일지가 Supabase 가동시간을 바로 읽음(`LOG_AC_*`·`logAcFetch_` 정리) ② 메인 화면 「미입력 공조기 n대 · 에어커튼 n대」 → 누르면 그 입력 칸, 미가동 체크 = 입력, 시안 `docs/시안/WS-온습도공조기/3_메인_미입력알림.png` 먼저 ③ 장비 kW 칸(`ahu_unit`·`curtain_unit`, 환경설정에서 고침) + 단가(원/kWh) 설정 하나 → 리포트에 하루·월 kWh·예상 요금·지난달 대비(시간·kWh·원), kW 빈 장비는 빼고 「kW 미입력 n대」. kW·단가는 사용자에게 받음. 옛 앱 폴더·저장소는 이관 뒤 삭제 예정이라 자료 사본 `docs/온습도앱_옛자료/` (`WS_온습도공조기` v0.2) | 2026-11-21 |
 | 196 | WS 온습도/공조기/에어커튼 입력 탭 4개 · 환기온도 11:00 | 사용자 11-21 「12:00분에서 11:00으로 바꿔주고 … 탭으로 분리」. 결정 192의 「온습도 + 환기온도 한 양식」을 바꿈 → 탭 4개 **AHU 환기온도 점검일지 · 온습도 · 공조기 가동시간 · 에어커튼 가동시간**, 리포트는 각 탭 [리포트] 버튼. 환기온도 탭 = 지금 [서류작업 › 공조기 환기온도] 화면·종이 그대로, 첫 시각 **12:00 → 11:00**(화면·종이·PDF 글자, 기본 회차 13:30 경계). 저장 칸 이름(`out_t12`·`"12"`)은 그대로 「첫 회차」로 씀. 온습도 탭은 옛 앱처럼 저장한 때가 측정 시각. 시안 `docs/시안/WS-온습도공조기/` 1~5 확인 대기 (`WS_온습도공조기` v0.3, `WS_공조기환기온도`) | 2026-11-21 |
+| 202 | WS 가동시간 칸 다듬기 — 오전/오후 고르기 없앰: 시작 「오전」·종료 「오후」 글자 고정(종료 「12시(자정)」 더함, 반대쪽 값은 그 값대로 보임), PC 시·분 글자 14px·칸 넓힘, 층 이름 정사각형 44px | 사용자 11-21 「앞쪽은 오전으로 … 뒤쪽은 오후로」「에어커튼 … 공조기가동시간과 같이」「글자가 잘려서 … 폰트 사이즈 조절」「층 표시 칸 … 정사각형」 · 업무지원 v0.23.1 |
 | 200 | WS 공조기·에어커튼 가동시간 — PC 장비 한 줄(1920×1080 한 화면), 휴대폰 층→구역 차례로 한 화면(넘기기 없음), 머리 [리포트] 왼쪽 [가동시간 설정]: 층·묶음 × 요일 기본 시작·종료(`equip_hours`, 소장만, 입력 화면 기본 시각만 바뀜) | 사용자 11-21 「1920x1080 해상도에서 전체 화면이 보여지도록」「휴대폰에서는 6층 1구역부터 2구역 3구역 5층 …」「요일별 시작시간, 종료시간을 입력할 수 있게 설정버튼」 · 시안 `시안/공조기가동_반응형/` · 업무지원 v0.23.0 |
 | 198 | WS 온습도/공조기/에어커튼 입력 다듬기 — 층·묶음 색 뺌(결정 192의 예외 색 2가지 중 층 색·에어커튼 색 모두 없앰, 이름 칸은 회색 바탕), PC B3층 칸을 구역 칸 크기로, 아래 버튼 줄을 AHU 탭과 같게(뒤로 하나), 온습도 리포트 그래프에 쾌적 온도 23~26℃ 주황 띠(주황은 이 띠에만), 조치 권고는 층별 접기 | 사용자 11-21 「B3층 입력칸 … B1F-1 입력칸 양식과 맞춰」「아래 버튼 … AHU 탭과 같이」「쾌적온도범위를 주황색으로」「층별로 묶어서 아코디언」「층에 들어가 있는 색상을 전부 빼줘」 · 업무지원 v0.22.1 |
 | 156 | WS 소화기 점검 입력 화면 공통 디자인 | 사용자 11-19 「소화기 점검 입력 양식도 이번 디자인 변경과 같은 디자인으로」, 시안 보고 「진행시켜」. 틀 이름 `page`가 공통 디자인의 「인쇄 양식 제외」에 걸려 옛 색으로 남던 것을 `fp`로 바꿈. 남색 머리줄, 구역 구분선, 실선 칸, 붙은 상태 버튼(고른 쪽 남색 채움), 전송 버튼 공통 높이, 완료 표시는 이상 없음 = 테두리 ✓ · 이상 있음 = 채운 !. 압력계 그림 바늘도 남색. 카메라 화면·입력 순서·저장은 그대로 |
@@ -299,6 +300,7 @@
 
 ## 부록 B. 변경 이력
 | 버전 | 날짜 | 내용 |
+| **WS_온습도공조기 v0.6** | 2026-11-21 (Claude Code, 온습도 이관) | 결정 202: 2-3장 시작 오전·종료 오후 글자 고정, PC 글자·층 칸. 업무지원 v0.23.1. **보낼 파일**: WS_온습도공조기 · 90 |
 | **WS_온습도공조기 v0.5** | 2026-11-21 (Claude Code, 온습도 이관) | 결정 200: 2-3장 가동시간 화면(PC 한 줄 · 휴대폰 차례로)·[가동시간 설정] 요일별, `21_equip_hours.sql`. 업무지원 v0.23.0. **보낼 파일**: WS_온습도공조기 · 90 |
 | **WS_온습도공조기 v0.4** | 2026-11-21 (Claude Code, 온습도 이관) | 코드·시험 끝 (업무지원 v0.22.0, 배포 전): `19_climate.sql`·`12_ahu.sql`(11:00 안내 글), 화면 탭 4개·온습도·가동시간·리포트·kW 설정·메인 미입력 알림, `ws-api.js`, 일지 가동 = `ws_log_ac`, `Code.gs` 옛 앱 읽기 없앰, 옮기기 도구 `tools/climate_csv.js`. 질문 Q2·Q4·Q7·Q8 답 적음, Q6 은 제안대로 |
 | **WS_온습도공조기 v0.3** | 2026-11-21 (Claude Code, 온습도 이관) | 결정 196: 탭 4개(합친 양식 버림), 환기온도 12:00 → 11:00, 시안 1~5 다시 그림, 질문 Q1·Q3·Q5 닫고 Q8 더함. **보낼 파일**: WS_온습도공조기 · 90 · 수정요청_대기목록 |

diff --git a/apps/ws/설치_및_테스트_안내.md b/apps/ws/설치_및_테스트_안내.md
@@ -1,4 +1,10 @@
-# 업무지원 앱 테스트판 v0.23.0 (소화기 점검 + 전열필증 + 열화상점검 + 공사장 점검 + 서명 로그인 + 명일 작업 예정 + TBM + 출근현황 + 종합업무일지 + 온습도/공조기/에어커튼 입력 + 지도 + 시방서 검색) — 설치 및 테스트 안내
+# 업무지원 앱 테스트판 v0.23.1 (소화기 점검 + 전열필증 + 열화상점검 + 공사장 점검 + 서명 로그인 + 명일 작업 예정 + TBM + 출근현황 + 종합업무일지 + 온습도/공조기/에어커튼 입력 + 지도 + 시방서 검색) — 설치 및 테스트 안내
+
+## v0.23.1 바뀐 것 · 올리는 방법 (가동시간 칸 다듬기 · 결정 202) — 배포 전
+- 공조기·에어커튼 가동시간: 오전/오후 고르기 칸을 없애고 **시작은 「오전」, 종료는 「오후」 글자**로 고정 (시·분만 고름). 종료 시 목록 끝에 「12시(자정)」.
+- PC: 시·분 칸 글자 14px · 칸 넓힘(1920×1080에서 글자 안 잘림). 층 칸을 줄이고 층 이름을 정사각형(44px)으로.
+- 시나 분 하나만 고르면 다른 칸이 비워지던 것 고침 (고른 값 유지).
+**올리는 방법**: 바로가기 저장소 `fm/ws/app.html`·`spec.html` (`npm run build:fm`) · 구글 `Index.html`·`Code.gs`(버전 번호) clasp. Supabase 바꿀 것 없음.
 
 ## v0.23.0 바뀐 것 · 올리는 방법 (가동시간 한 화면 · 요일별 가동시간 설정 · 결정 200) — 11-21 배포 (배포 버전 81 · Supabase 21 실행은 사용자)
 - PC 공조기·에어커튼 가동시간: 장비 한 대 = **한 줄**(이름 · 시작 ~ 종료 · 미가동 · 가동시간). 1920×1080 화면에 스크롤 없이 모두 들어감. 머리 카드도 한 줄.

diff --git a/docs/설계/WS_온습도공조기.md b/docs/설계/WS_온습도공조기.md
@@ -61,7 +61,7 @@
 
 ### 2-3. 탭 ③ 공조기 가동시간 · 탭 ④ 에어커튼 가동시간 — 시안 3·4
 - 옛 앱 화면을 업무지원 부품으로 다시 그림. 규칙은 옛 앱 그대로:
-  - 시작·종료 = 오전/오후·시·분 드롭다운, **10분 단위**, 폰 글자 16px 이상. **미가동** 체크 = 0시간, 빈 칸 = 통계 제외.
+  - 시작·종료 = 시·분 드롭다운 (**v0.23.1 결정 202: 시작 「오전」·종료 「오후」 글자 고정**, 종료 「12시(자정)」), **10분 단위**, 폰 글자 16px 이상. **미가동** 체크 = 0시간, 빈 칸 = 통계 제외.
   - 기본 시각: 공조기 시작 10:00, 종료 월~목 19:20 · 금~일 20:20, **6층 매일 21:50**, **B3층 08:30~18:40**. 에어커튼 10:00~20:00, 금토일 19:30.
   - **v0.23.0 (결정 200)**: 휴대폰 = 층 → 1·2·3구역 차례로 한 화면(에어커튼은 묶음 차례), 위 층 버튼은 그 층으로 이동. PC = 층(줄) × 구역(칸) 표, 장비 한 대 한 줄로 1920×1080(보이는 높이 950)에 스크롤 없이. [저장] = 고친 장비 + 아직 저장 안 한 장비 모두.
   - **[가동시간 설정]** (결정 200, 소장만): 머리 [리포트] 왼쪽. 층·묶음 × 요일(월~일) 기본 시작·종료, `equip_hours` 표 (`21_equip_hours.sql`). 입력 화면 기본 시각 = 그 날 요일 설정, 없으면 위 기본 시각. 10분 단위, 종료 00:00 = 자정. 메인 미입력 알림 기준 시각(월~목 19:20 · 금토일 20:20)은 그대로.
